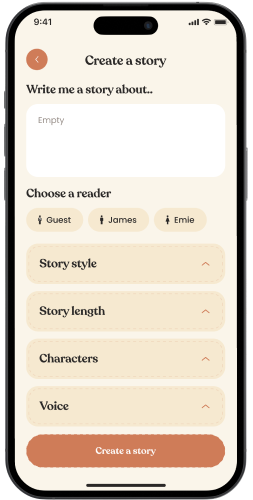
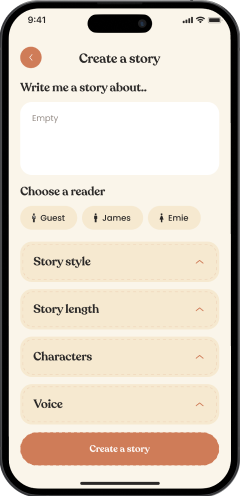
some fix img for step sec

diff --git a/Ryan/dist/css/main.css b/Ryan/dist/css/main.css
@@ -569,11 +569,26 @@ input[type='submit'] {
     padding: 0;
     list-style: none; }
   #header .link {
+    position: relative;
     color: #000;
     font-family: "Poppins", "Arial", "Helvetica Neue", "Helvetica", sans-serif;
     font-size: 16px;
     font-weight: 500;
     line-height: 150%; }
+    #header .link::after {
+      content: '';
+      position: absolute;
+      bottom: -5px;
+      left: 50%;
+      -webkit-transform: translate(-50%);
+      transform: translate(-50%);
+      width: 0;
+      height: 2px;
+      background-color: #000;
+      transition: all 0.3s ease 0s;
+      transition: all 0.3s ease 0s; }
+    #header .link:hover::after {
+      width: 100%; }
 
 html {
   scroll-behavior: smooth; }
@@ -944,7 +959,8 @@ body {
         display: none; } }
   .phone-section .sticky-phones-content {
     position: relative;
-    overflow: hidden; }
+    overflow: hidden;
+    border-radius: 48px; }
   .phone-section .img-step {
     width: 100%; }
     .phone-section .img-step:not(:first-of-type) {

diff --git a/Ryan/src/styles/layout/_header.scss b/Ryan/src/styles/layout/_header.scss
@@ -28,10 +28,31 @@
     }
 
     .link {
+        position: relative;
         color: $black;
         font-family: $Poppins;
         font-size: 16px;
         font-weight: 500;
         line-height: 150%;
+
+        &::after {
+            content: '';
+            position: absolute;
+            bottom: -5px;
+            left: 50%;
+            transform: translate(-50%);
+            width: 0;
+            height: 2px;
+            background-color: $black;
+            transition: all 0.3s ease 0s;
+            transition: $animation-speed;
+        }
+
+        &:hover {
+
+            &::after {
+                width: 100%;
+            }
+        }
     }
 }

diff --git a/Ryan/dist/index.html b/Ryan/dist/index.html
@@ -90,7 +90,7 @@
             </div>
             <section class="phone-section" id="how">
                 <div class="container">
-                    <div class="sticky-phones-wrapper">
+                    <div class="sticky-phones-wrapper">                       
                         <div class="sticky-phones-content">
                             <img class="img-step" src="./images/step1.png" alt="step 1">
                             <img class="img-step" src="./images/step2.png" alt="step 2">

diff --git a/Ryan/src/index.html b/Ryan/src/index.html
@@ -55,7 +55,7 @@
             </div>
             <section class="phone-section" id="how">
                 <div class="container">
-                    <div class="sticky-phones-wrapper">
+                    <div class="sticky-phones-wrapper">                       
                         <div class="sticky-phones-content">
                             <img class="img-step" src="./images/step1.png" alt="step 1">
                             <img class="img-step" src="./images/step2.png" alt="step 2">

diff --git a/Ryan/src/styles/layout/_common.scss b/Ryan/src/styles/layout/_common.scss
@@ -300,7 +300,6 @@ body {
         }
     }
 
-
     .sticky-phones-wrapper {
         position: absolute;
         width: 285px;
@@ -315,10 +314,12 @@ body {
     .sticky-phones-content {
         position: relative;
         overflow: hidden;
+        border-radius: 48px;
     }
 
     .img-step {
         width: 100%;
+
         &:not(:first-of-type) {
             position: absolute;
             left: 0;
